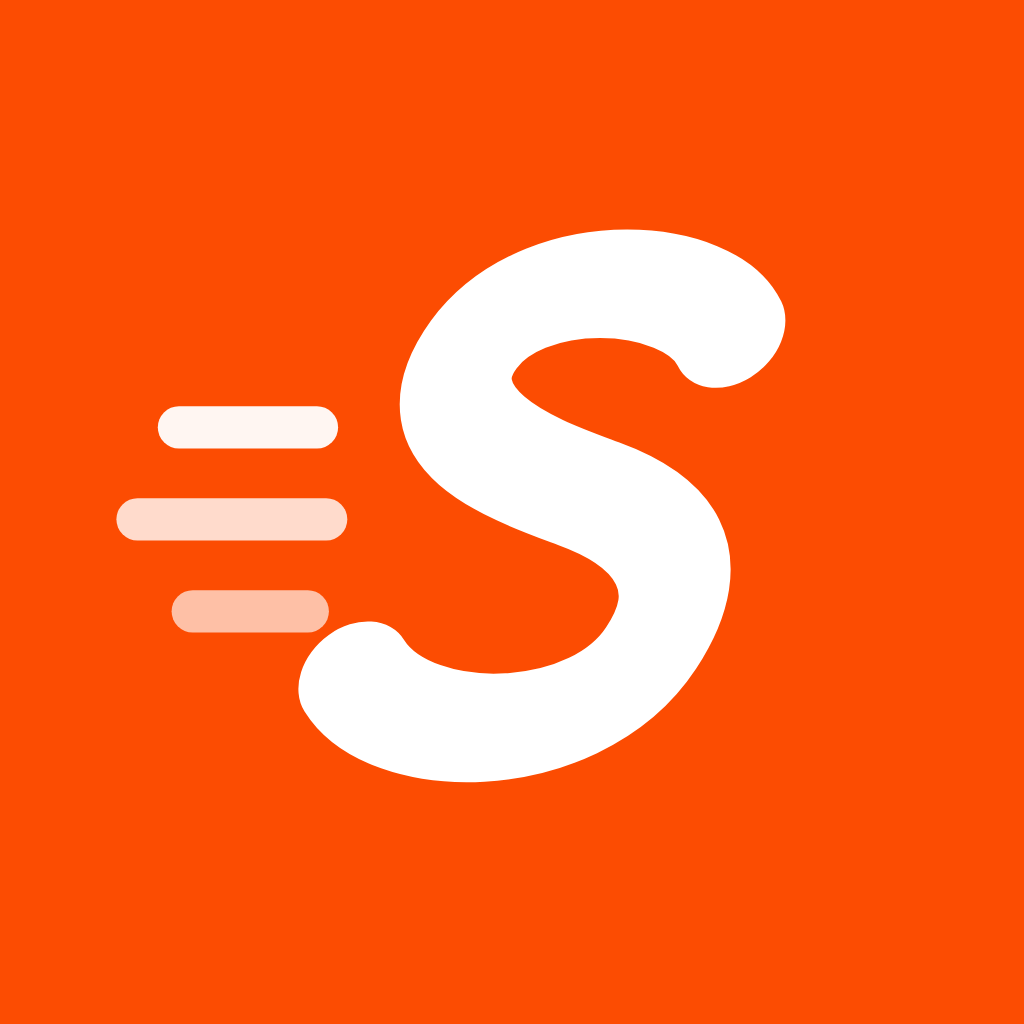
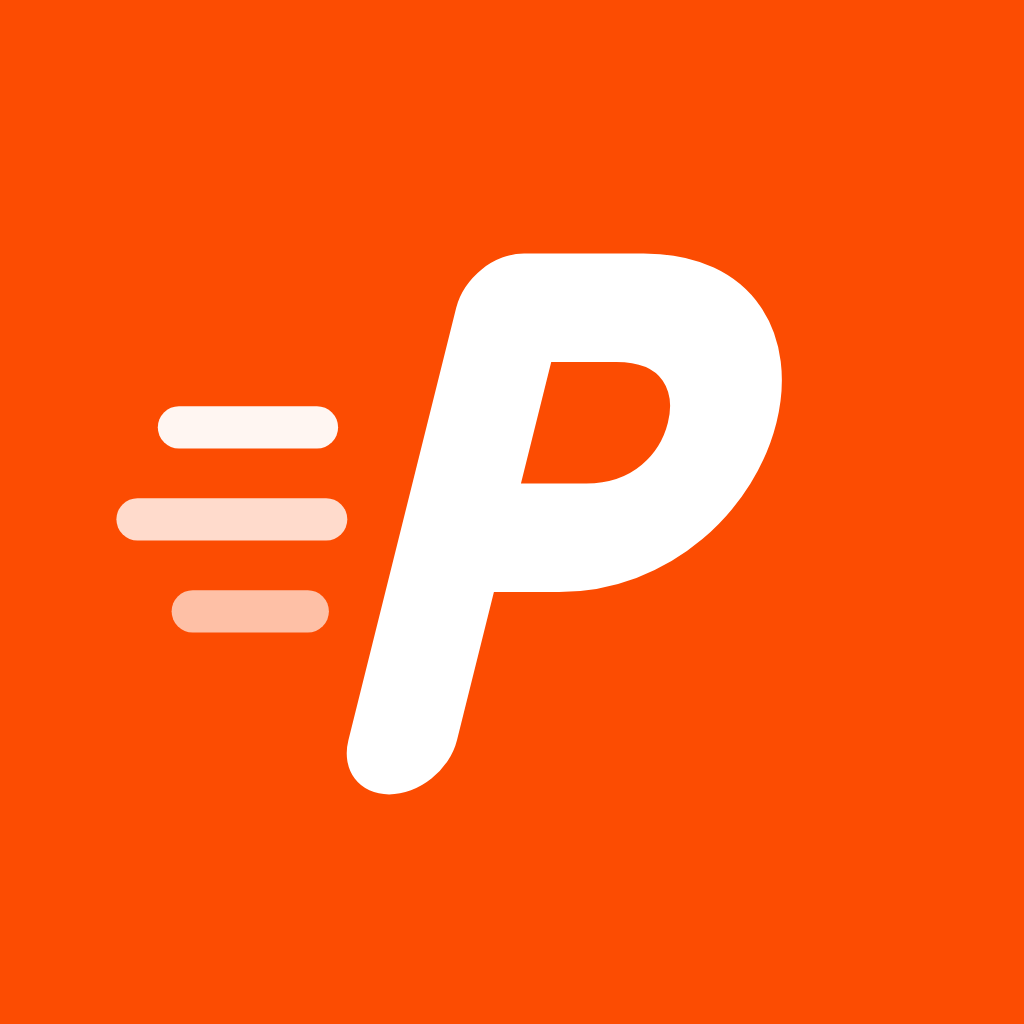
Rename the app from Stride to Pacebook
"Stride" is already taken on the App Store and crowded with running apps.
Renames the display name, slug, scheme, background task id and all
user-facing copy, sets the bundle id / Android package to
com.thisismasdouk.pacebook, and redraws the icon mark as a "P".

Claude-Session: https://claude.ai/code/session_018U8dwwJoYyC91Gbc4xEXk6

Changed region(s): [[0.2812, 0.2188, 0.7812, 0.7812]]

diff --git a/src/app/record.tsx b/src/app/record.tsx
@@ -202,7 +202,7 @@ export default function Record() {
       await stopTracking();
       await notice(
         "Couldn't start GPS",
-        `${errorText(e)}\n\n${IS_WEB ? 'Check that this site may use your location.' : 'Check that Location Services are on and Stride is allowed to use your location.'}`,
+        `${errorText(e)}\n\n${IS_WEB ? 'Check that this site may use your location.' : 'Check that Location Services are on and Pacebook is allowed to use your location.'}`,
       );
       return;
     } finally {
@@ -244,7 +244,7 @@ export default function Record() {
       const choice = await showDialog(
         noGps ? 'No GPS points recorded' : 'Run too short to save',
         noGps
-          ? "Stride didn't receive any usable GPS fixes during this run, so there's no route or distance to save."
+          ? "Pacebook didn't receive any usable GPS fixes during this run, so there's no route or distance to save."
           : 'Runs shorter than 10 metres are not saved.',
         [
           { text: 'Back to run', style: 'cancel' },
@@ -456,7 +456,7 @@ function hintText(o: {
   if (!o.idle && !o.hasPoints && o.signal !== 'ready') return 'No usable GPS fix yet. Distance starts counting once one arrives.';
   if (o.idle && o.signal === 'weak') return 'Weak signal. Head outside with a clear view of the sky for the best accuracy.';
   if (!o.idle && o.signal === 'lost') return 'GPS signal lost. Recording continues when it returns.';
-  if (!o.idle && o.mode === 'foreground' && !IS_WEB) return 'Background tracking isn’t available in this build. Keep Stride open while you run.';
+  if (!o.idle && o.mode === 'foreground' && !IS_WEB) return 'Background tracking isn’t available in this build. Keep Pacebook open while you run.';
   return null;
 }
 
@@ -491,14 +491,14 @@ function AccessPanel({
   switch (access?.access) {
     case 'undetermined':
       title = 'Allow location to record runs';
-      body = 'Stride uses your location while you record to map your route and measure distance and pace.';
+      body = 'Pacebook uses your location while you record to map your route and measure distance and pace.';
       action = { title: 'Allow location', onPress: onAsk };
       break;
     case 'denied':
       title = 'Location access is off';
       body = IS_WEB
         ? "Allow location for this site (the icon in your browser's address bar), then try again."
-        : 'Stride needs location access to track your route, distance and pace.';
+        : 'Pacebook needs location access to track your route, distance and pace.';
       action = access.canAskAgain
         ? { title: 'Allow location', onPress: onAsk }
         : canOpenSettings
@@ -512,7 +512,7 @@ function AccessPanel({
       break;
     case 'approximate':
       title = 'Precise location is off';
-      body = 'With approximate location your position is only known to within hundreds of metres, so Stride can’t measure a run. Turn on Precise Location for Stride in Settings.';
+      body = 'With approximate location your position is only known to within hundreds of metres, so Pacebook can’t measure a run. Turn on Precise Location for Pacebook in Settings.';
       action = { title: 'Open Settings', onPress: openSettings };
       break;
     case 'unavailable':

diff --git a/src/app/privacy.tsx b/src/app/privacy.tsx
@@ -9,19 +9,19 @@ import { Card } from '@/components/ui';
  */
 const SECTIONS: [title: string, body: string][] = [
   [
-    'What Stride collects',
-    'While you record a run, Stride uses your device location (GPS) to draw your route and measure distance, pace and elevation. You can also add a name, run titles, notes and an effort rating.',
+    'What Pacebook collects',
+    'While you record a run, Pacebook uses your device location (GPS) to draw your route and measure distance, pace and elevation. You can also add a name, run titles, notes and an effort rating.',
   ],
   [
     'Where it is stored',
-    'Everything is stored only on this device. Stride has no account, no server, no analytics and no advertising. Nothing you record is sent to us or to anyone else.',
+    'Everything is stored only on this device. Pacebook has no account, no server, no analytics and no advertising. Nothing you record is sent to us or to anyone else.',
   ],
   [
     'Location in the background',
-    'Location is used only while a run is being recorded, including when the screen is locked so your run keeps recording. iPhone shows a blue location indicator and Android shows a notification the whole time. Stride stops using location when you finish or discard the run.',
+    'Location is used only while a run is being recorded, including when the screen is locked so your run keeps recording. iPhone shows a blue location indicator and Android shows a notification the whole time. Pacebook stops using location when you finish or discard the run.',
   ],
-  ['Deleting your data', 'Delete any run from its detail screen. Uninstalling Stride removes all of its data from the device.'],
-  ['Children', 'Stride does not knowingly collect any personal information from anyone, including children.'],
+  ['Deleting your data', 'Delete any run from its detail screen. Uninstalling Pacebook removes all of its data from the device.'],
+  ['Children', 'Pacebook does not knowingly collect any personal information from anyone, including children.'],
   ['Changes', 'If this policy changes, the new version will be shown here and on the App Store listing.'],
 ];
 

diff --git a/scripts/generate-icons.js b/scripts/generate-icons.js
@@ -1,4 +1,4 @@
-// Renders the Stride icon set (assets/*.png) from the SVG below with a
+// Renders the Pacebook icon set (assets/*.png) from the SVG below with a
 // headless Chromium, then re-encodes with pngjs (opaque icons as RGB, since
 // App Store icons must not have an alpha channel).
 //
@@ -13,13 +13,13 @@ const { PNG } = require('pngjs');
 const OUT = path.join(__dirname, '..', 'assets');
 const ORANGE = '#FC4C02';
 
-// The mark: a bold, forward-leaning "S" with three motion streaks, in a 1024 box.
+// The mark: a bold, forward-leaning "P" with three motion streaks, in a 1024 box.
 function glyph(color, scale = 1) {
   const t = `translate(512 512) scale(${scale}) translate(-512 -512)`;
   return `
   <g transform="${t}" fill="none" stroke="${color}" stroke-linecap="round" stroke-linejoin="round">
     <g transform="translate(560 512) skewX(-14) translate(-560 -512)">
-      <path d="M 700 318 C 650 250 470 238 425 330 C 380 425 520 468 590 492 C 680 522 735 575 700 660 C 655 770 455 770 385 690" stroke-width="118"/>
+      <path d="M 455 760 L 455 290 L 585 290 C 760 290 760 540 585 540 L 455 540" stroke-width="118"/>
     </g>
     <path d="M 150 420 L 300 420" stroke-width="46" opacity="0.95"/>
     <path d="M 105 520 L 310 520" stroke-width="46" opacity="0.8"/>

diff --git a/src/lib/location.ts b/src/lib/location.ts
@@ -10,7 +10,7 @@ import type { TrackPoint } from './types';
  * the browser Geolocation API; tracking.ts only talks to this interface.
  */
 
-export const LOCATION_TASK = 'stride-run-location';
+export const LOCATION_TASK = 'pacebook-run-location';
 const ASKED_ALWAYS_KEY = 'askedAlwaysLocation';
 
 export type Access =
@@ -95,7 +95,7 @@ export async function startBackgroundUpdates(): Promise<void> {
     pausesUpdatesAutomatically: false,
     showsBackgroundLocationIndicator: true,
     foregroundService: {
-      notificationTitle: 'Stride is recording your run',
+      notificationTitle: 'Pacebook is recording your run',
       notificationBody: 'Tap to return to your run.',
       notificationColor: '#FC4C02',
     },

diff --git a/plugins/withoutBackgroundFetch.js b/plugins/withoutBackgroundFetch.js
@@ -1,5 +1,5 @@
 // expo-task-manager's config plugin always adds the "fetch" background mode,
-// but Stride never uses background fetch. App Review asks about background
+// but Pacebook never uses background fetch. App Review asks about background
 // modes an app declares without using, so strip it and keep "location"
 // (run tracking) and "audio" (spoken split cues while the phone is locked).
 const { withInfoPlist } = require('expo/config-plugins');

diff --git a/src/lib/location.web.ts b/src/lib/location.web.ts
@@ -10,7 +10,7 @@ export type { Access, AccessResult } from './location';
  * drops watch errors, so this talks to the browser directly.
  */
 
-export const LOCATION_TASK = 'stride-run-location';
+export const LOCATION_TASK = 'pacebook-run-location';
 export const supportsBackgroundUpdates = false;
 export const canOpenSettings = false;
 

diff --git a/docs/APP_STORE.md b/docs/APP_STORE.md
@@ -1,12 +1,12 @@
-# Releasing Stride to the App Store (and Google Play)
+# Releasing Pacebook to the App Store (and Google Play)
 
-This is the step-by-step checklist for shipping Stride with EAS. Everything that can live in the repo is already configured: `app.json`, `app.config.js`, `eas.json`, the icon set, the splash screen, the iOS privacy manifest, permission strings and export-compliance flag. The steps marked **(you)** need your own accounts, so only you can do them.
+This is the step-by-step checklist for shipping Pacebook with EAS. Everything that can live in the repo is already configured: `app.json`, `app.config.js`, `eas.json`, the icon set, the splash screen, the iOS privacy manifest, permission strings and export-compliance flag. The steps marked **(you)** need your own accounts, so only you can do them.
 
 ## 0. What's already set up
 
 | Item | Where |
 | --- | --- |
-| Bundle ID / package `com.stride.running` | `app.json` → `ios.bundleIdentifier`, `android.package` |
+| Bundle ID / package `com.thisismasdouk.pacebook` | `app.json` → `ios.bundleIdentifier`, `android.package` |
 | Build numbers owned by EAS remote versioning and auto-incremented on production builds (set a starting value with `npx eas-cli@latest build:version:set`); `app.json` deliberately has no `buildNumber`/`versionCode` | `eas.json` (`appVersionSource: remote`, `autoIncrement`) |
 | Build profiles: `development`, `development-simulator`, `preview`, `production` | `eas.json` |
 | Submit profile `production` (Android goes to the internal track as a draft) | `eas.json` |
@@ -22,7 +22,7 @@ This is the step-by-step checklist for shipping Stride with EAS. Everything that
 ## 1. One-time setup
 
 1. **(you)** Join the [Apple Developer Program](https://developer.apple.com/programs/) ($99/year). For Android, create a [Google Play Console](https://play.google.com/console) account ($25 once).
-2. **(you)** Decide on the bundle identifier. `com.stride.running` implies you own `stride.running`. If you don't, change `ios.bundleIdentifier` and `android.package` in `app.json` to a reverse-DNS name you control (e.g. `com.yourname.stride`) **before the first build**. They can't be changed after the app is published.
+2. **(you)** Check the bundle identifier `com.thisismasdouk.pacebook` (based on the GitHub account, since there's no domain yet). If you'd rather use a domain you own, change `ios.bundleIdentifier` and `android.package` in `app.json` **before the first build**. They can't be changed after the app is published.
 3. Log in and link the project to EAS (this adds `owner` and `extra.eas.projectId` to `app.json`; commit that change):
 
    ```bash
@@ -39,7 +39,7 @@ This is the step-by-step checklist for shipping Stride with EAS. Everything that
 
    Without the key, the map is blank in Android builds (Expo Go and iOS don't need it).
 5. **(you)** Host the privacy policy: publish `docs/PRIVACY.md` (with your support email filled in) at a public URL, e.g. GitHub Pages or a Notion page. Apple and Google both require the URL.
-6. **(you)** Reserve the app name in App Store Connect: **Apps → + → New App**, platform iOS, name "Stride" (names are unique, so have a fallback like "Stride: Run Tracker"), primary language, bundle ID from step 2, SKU `stride`. Note the numeric **Apple ID** of the app. To make `eas submit` fully non-interactive, add it to `eas.json` under `submit.production.ios.ascAppId`.
+6. **(you)** Reserve the app name in App Store Connect: **Apps → + → New App**, platform iOS, name "Pacebook" (names are unique, so have a fallback like "Pacebook: Run Tracker"), primary language, bundle ID from step 2, SKU `pacebook`. Note the numeric **Apple ID** of the app. To make `eas submit` fully non-interactive, add it to `eas.json` under `submit.production.ios.ascAppId`.
 
 ## 2. Test on real devices first
 
@@ -55,8 +55,8 @@ Checklist:
 
 - [ ] First launch → Record: the location prompt appears (While Using). Start → "Change to Always Allow" is offered once. Choosing "Keep Only While Using" still records with the screen locked (blue indicator).
 - [ ] Lock the phone for 5+ minutes during a run: the route has no straight-line gap.
-- [ ] Android: a "Stride is recording your run" notification is shown during the run and goes away after Finish.
-- [ ] Turn Precise Location off for Stride: the Record screen says so and offers Open Settings.
+- [ ] Android: a "Pacebook is recording your run" notification is shown during the run and goes away after Finish.
+- [ ] Turn Precise Location off for Pacebook: the Record screen says so and offers Open Settings.
 - [ ] Voice cues at each km, auto-pause at a stop, 3-2-1 countdown.
 - [ ] Kill the app mid-run and reopen it: the Home banner shows the run, and recording continues.
 
@@ -84,13 +84,13 @@ The build appears in TestFlight after processing (about 10–30 minutes). Test i
 
 Suggested text. Avoid naming other apps or brands (e.g. "Strava") anywhere in the metadata.
 
-- **Name:** Stride
+- **Name:** Pacebook
 - **Subtitle (30 chars):** GPS run tracker, no account
 - **Category:** Health & Fitness (secondary: Sports)
 - **Promotional text:** Record your runs with GPS, hear your splits, and watch your weekly mileage grow. Everything stays on your phone.
 - **Description:**
 
-  > Stride is a simple, private running tracker.
+  > Pacebook is a simple, private running tracker.
   >
   > • Record runs with GPS: live time, distance, current and average pace on a map
   > • Keeps recording with your phone locked or in your pocket
@@ -134,7 +134,7 @@ Remove the sample runs afterwards if you like. They're clearly labelled as optio
 
 Paste something like:
 
-> Stride records runs using GPS. There is no login.
+> Pacebook records runs using GPS. There is no login.
 >
 > Background location: location is used only while the user is actively recording a run that they started with the Start button, so the run keeps recording when the phone is locked or in a pocket. The blue location indicator is shown the whole time, and tracking stops when the run is finished or discarded. The app works fully with "While Using the App" permission; "Always" is offered once, at the first Start, and is optional.
 >
@@ -171,4 +171,5 @@ Attaching a short screen recording of a run with the phone locked helps with the
 - [ ] Add `ascAppId` to `eas.json` (optional, for non-interactive submits)
 - [ ] Take screenshots, fill in the listing, age rating and App Privacy answers
 - [ ] Do the first manual Play upload and create a Google service account key for `eas submit`
+- [ ] Be aware that the name "Pacebook" plays on "Facebook". Meta has objected to other "-book" names before, so there is some risk of a rename request after launch
 - [ ] Review the brand: the accent colour `#FC4C02` is very close to Strava's trademark orange. Consider a distinct colour if you want to reduce trademark or copycat (Guideline 4.1) risk

diff --git a/docs/PRIVACY.md b/docs/PRIVACY.md
@@ -1,28 +1,28 @@
-# Stride Privacy Policy
+# Pacebook Privacy Policy
 
 _Last updated: 2026-09-27_
 
-Stride is a running tracker. This policy explains what it does with your information. The same text is shown in the app under **You → Privacy**.
+Pacebook is a running tracker. This policy explains what it does with your information. The same text is shown in the app under **You → Privacy**.
 
-## What Stride collects
+## What Pacebook collects
 
-While you record a run, Stride uses your device's location (GPS) to draw your route and measure distance, pace and elevation. You can also enter a display name, run titles, notes and an effort rating.
+While you record a run, Pacebook uses your device's location (GPS) to draw your route and measure distance, pace and elevation. You can also enter a display name, run titles, notes and an effort rating.
 
 ## Where it is stored
 
-Everything is stored only on your device. Stride has no account, no server, no analytics and no advertising. Nothing you record is sent to the developer or to any third party.
+Everything is stored only on your device. Pacebook has no account, no server, no analytics and no advertising. Nothing you record is sent to the developer or to any third party.
 
 ## Location in the background
 
-Location is used only while a run is being recorded, including when the screen is locked so your run keeps recording. iPhone shows a blue location indicator and Android shows a notification the whole time. Stride stops using location when you finish or discard the run.
+Location is used only while a run is being recorded, including when the screen is locked so your run keeps recording. iPhone shows a blue location indicator and Android shows a notification the whole time. Pacebook stops using location when you finish or discard the run.
 
 ## Deleting your data
 
-You can delete any run from its detail screen. Uninstalling Stride removes all of its data from your device.
+You can delete any run from its detail screen. Uninstalling Pacebook removes all of its data from your device.
 
 ## Children
 
-Stride does not knowingly collect personal information from anyone, including children.
+Pacebook does not knowingly collect personal information from anyone, including children.
 
 ## Changes
 

diff --git a/README.md b/README.md
@@ -1,4 +1,4 @@
-# Stride 🏃
+# Pacebook 🏃
 
 A running tracker for iOS and Android, built with Expo (SDK 57) and Expo Router.
 
@@ -42,7 +42,7 @@ Android dev and release builds need a Google Maps API key for `react-native-maps
 
 ### Troubleshooting GPS
 
-- **"Precise location off"**: iOS *Settings → Stride → Location → Precise Location* or Android *App info → Permissions → Location → Use precise location*. Approximate fixes are hundreds of metres wide and can't measure a run.
+- **"Precise location off"**: iOS *Settings → Pacebook → Location → Precise Location* or Android *App info → Permissions → Location → Use precise location*. Approximate fixes are hundreds of metres wide and can't measure a run.
 - **"Location services off"**: turn on Location Services / Location for the whole device.
 - **"GPS unavailable here" on web**: the page is embedded without location access (e.g. an iframe preview). Open it in its own tab, allow location for the site, or use **Simulate a run**.
 - **"Weak GPS"**: go outside with a clear view of the sky and wait a few seconds before starting.
